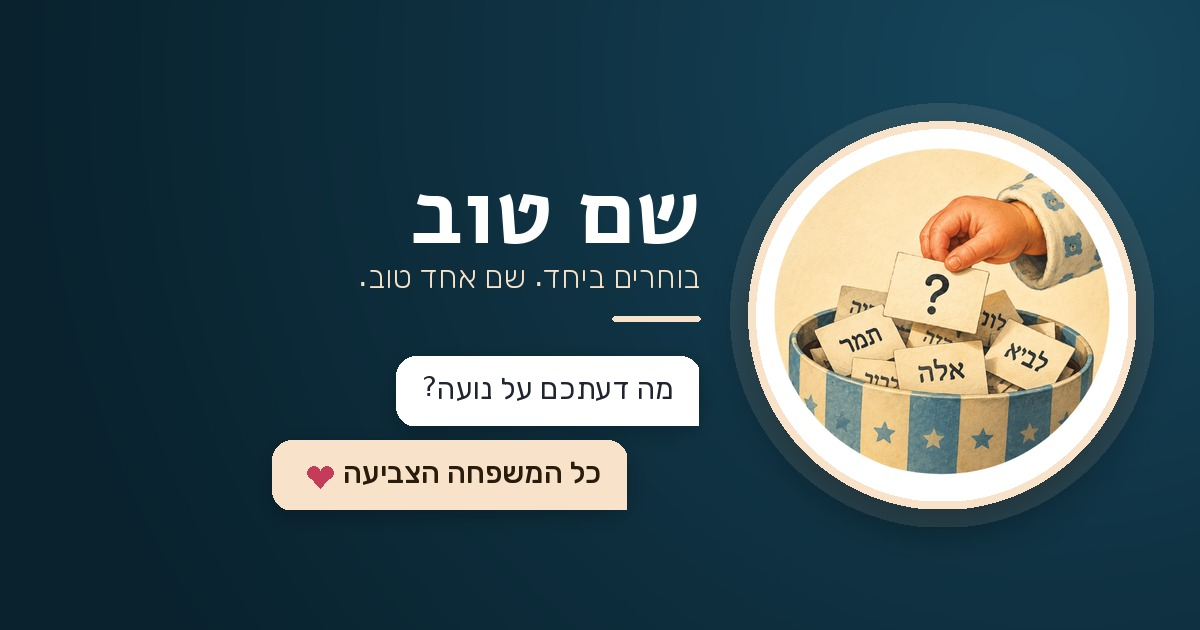
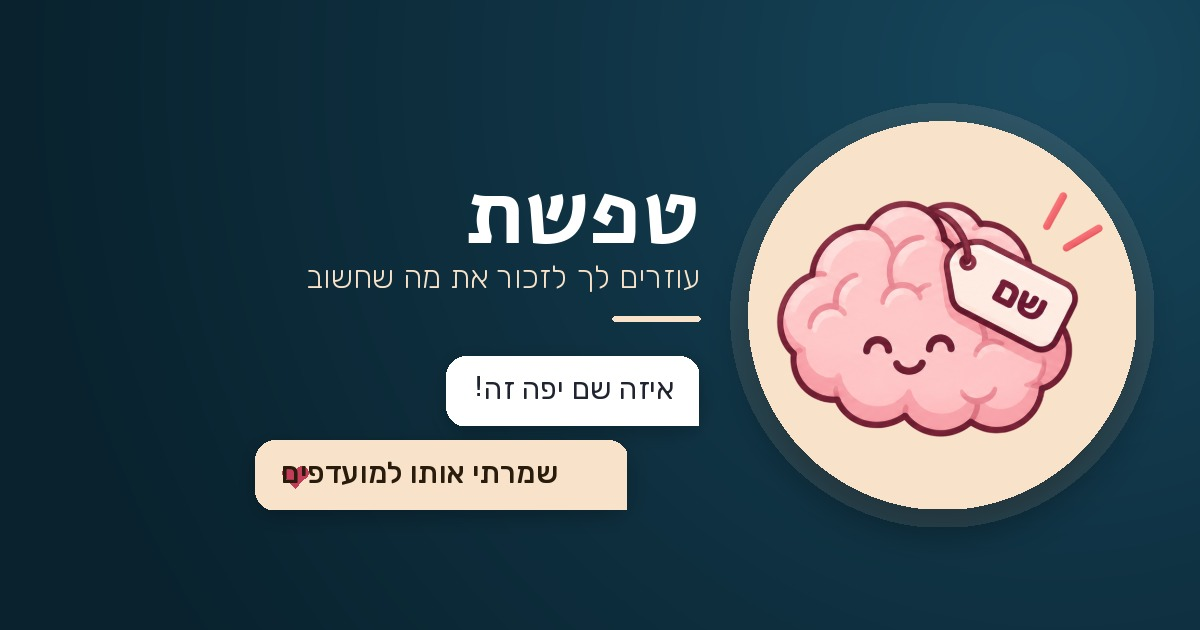
a

diff --git a/src/App.tsx b/src/App.tsx
@@ -30,8 +30,8 @@ import { logSearch } from "@/data/searchLogs"
 import { logFilterClick } from "@/data/filterClickLogs"
 import { useSilentRetry } from "@/lib/useSilentRetry"
 
-const PRODUCT_NAME = "שם טוב"
-const TAGLINE = "מגלים ובוחרים את השם המושלם."
+const PRODUCT_NAME = "טפשת"
+const TAGLINE = "עוזרים לך לזכור את מה שחשוב"
 const PRIVACY_NOTE = "השמות שאתם שומרים גלויים רק לכם."
 
 const NAV_ITEMS = [{ id: "browse", label: "עיון בשמות", icon: assets.iconHome }]
@@ -184,7 +184,7 @@ export default function App() {
         <Section
           title="כל השמות"
           mobileTitle="בחירת שם"
-          description="עיינו, חפשו וסננו מתוך הקטלוג המשותף של שם טוב, ושמרו את השמות שאהבתם."
+          description="עיינו, חפשו וסננו מתוך הקטלוג המשותף של טפשת, ושמרו את השמות שאהבתם."
         >
           <div className="flex flex-col gap-4">
             <NameFiltersBar

diff --git a/index.html b/index.html
@@ -23,7 +23,7 @@
 
     <meta property="og:type" content="website" />
     <meta property="og:url" content="https://matoy7.github.io/Shem-Tov/" />
-    <meta property="og:site_name" content="שם טוב" />
+    <meta property="og:site_name" content="טפשת" />
     <meta property="og:locale" content="he_IL" />
 
     <!-- 1200×630 JPEG, ~74 KB. WhatsApp renders the large card only while the
@@ -34,7 +34,7 @@
     <meta property="og:image:type" content="image/jpeg" />
     <meta property="og:image:width" content="1200" />
     <meta property="og:image:height" content="630" />
-    <meta property="og:image:alt" content="שם טוב — בוחרים ביחד. שם אחד טוב." />
+    <meta property="og:image:alt" content="טפשת — עוזרים לך לזכור את מה שחשוב" />
 
     <meta name="twitter:card" content="summary_large_image" />
     <meta name="twitter:image" content="https://matoy7.github.io/Shem-Tov/og-image.jpg" />

diff --git a/supabase/functions/share/index.ts b/supabase/functions/share/index.ts
@@ -50,7 +50,7 @@ import { Resvg, initWasm } from "npm:@resvg/resvg-wasm@2.6.2"
 const SITE_ORIGIN = (
   Deno.env.get("SITE_ORIGIN") ?? "https://matoy7.github.io/Shem-Tov"
 ).replace(/\/$/, "")
-const BRAND_NAME = "שם טוב"
+const BRAND_NAME = "טפשת"
 
 const supabase = createClient(
   Deno.env.get("SUPABASE_URL")!,

diff --git a/public/404.html b/public/404.html
@@ -2,7 +2,7 @@
 <html lang="he" dir="rtl">
   <head>
     <meta charset="UTF-8" />
-    <title>שם טוב</title>
+    <title>טפשת</title>
     <script>
       // Single-Page Apps for GitHub Pages — https://github.com/rafgraph/spa-github-pages
       //

diff --git a/README.md b/README.md
@@ -1,4 +1,4 @@
-# שם טוב
+# טפשת
 
 A Hebrew RTL baby-name discovery app. Browse, search and filter a shared name catalogue — by gender, origin, meaning, style, popularity, and more — and save the names you like.
 
@@ -55,7 +55,7 @@ Only the minimum required to make the existing Figma Make output deployable as a
 - `vite.config.ts`: build `base` defaults to `./` (relative) instead of `/`, so asset/script URLs resolve correctly when the site is served from a GitHub Pages repository sub-path.
 - `src/App.tsx`: the local `assetPathPrefix` now uses `import.meta.env.BASE_URL` instead of a hard-coded absolute `/assets` path, for the same reason (this only affects how the URL is built — the images, icons, and everything else are unchanged).
 - `index.html`: added `dir="rtl"` on `<html>` (in addition to the existing `lang` templating) for correct document-level RTL semantics. This doesn't change any rendering — the app's root element already sets its own explicit `dir` for layout.
-- `.figma/make/site.json`: set `title` to "שם טוב" and `language` to `he` (previously an untitled/English-default placeholder), which only affects the browser tab title and `<html lang>` — no visible UI change.
+- `.figma/make/site.json`: set `title` to "טפשת" and `language` to `he` (previously an untitled/English-default placeholder), which only affects the browser tab title and `<html lang>` — no visible UI change.
 - Added `public/.nojekyll` so GitHub Pages serves the build as-is without Jekyll processing.
 - Added `.github/workflows/deploy.yml` for automatic build + deploy on push to `main`.
 - Replaced `pnpm-lock.yaml` with a generated `package-lock.json` so `npm install` / `npm ci` work as specified (the project itself still uses only `npm`-standard tooling).
@@ -100,7 +100,7 @@ idempotent, so re-running is safe. It creates `profiles`, `sentences` and
 Security policies (everything readable by signed-in users; rows writable only
 by their owner).
 
-**שם טוב schema — run in order, all idempotent and safe to re-run:**
+**טפשת schema — run in order, all idempotent and safe to re-run:**
 
 1. `supabase/2026-09-shem-tov-families.sql` through `supabase/2026-09-shem-tov-phase12-filter-click-log.sql` — the app's schema history, including the family feature as it was originally built.
 2. `supabase/2026-09-shem-tov-phase13-remove-family.sql` — removes the Family feature entirely (families, membership, invitations, family-scoped votes, family-suggested names, family-vote notifications) and replaces family-scoped voting with `name_favorites`, a plain personal save/bookmark. **Run this last, after every other file** — it depends on those tables already existing. This one is genuinely irreversible: family data is dropped, not archived.
